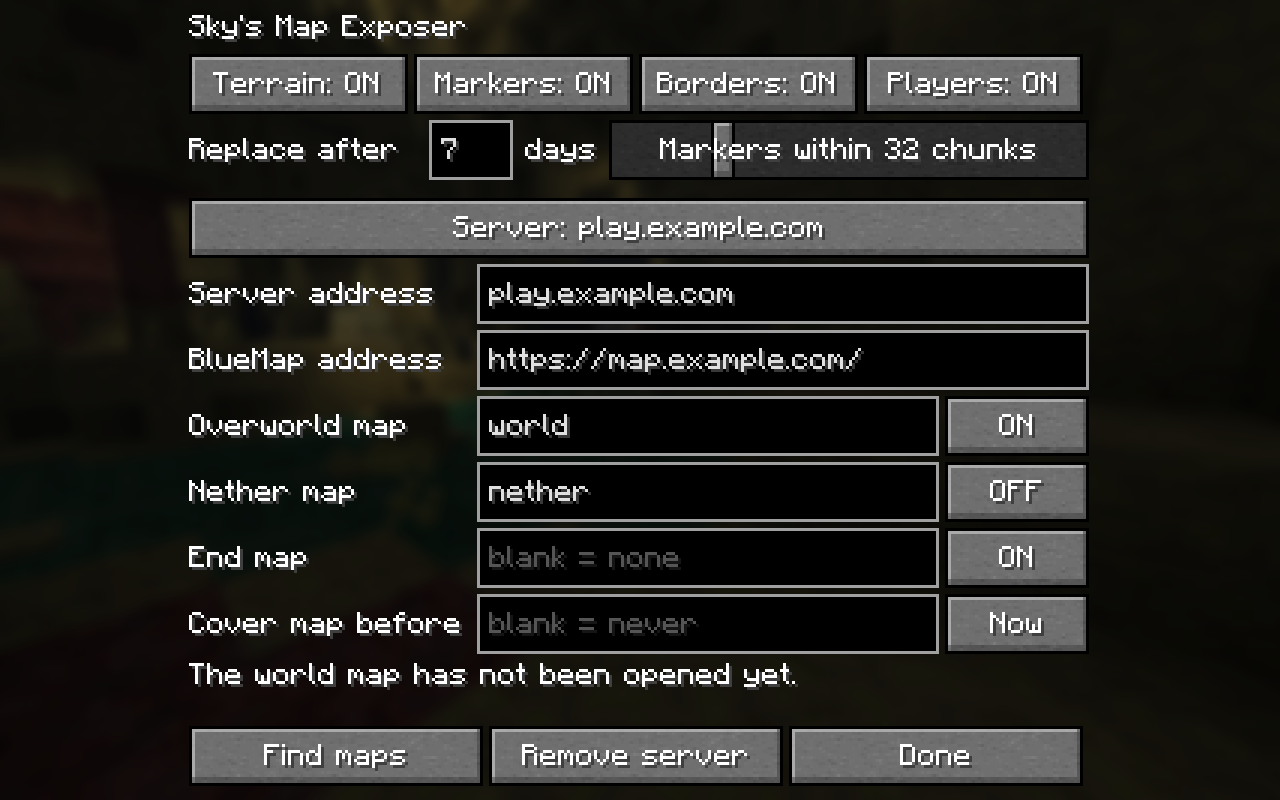
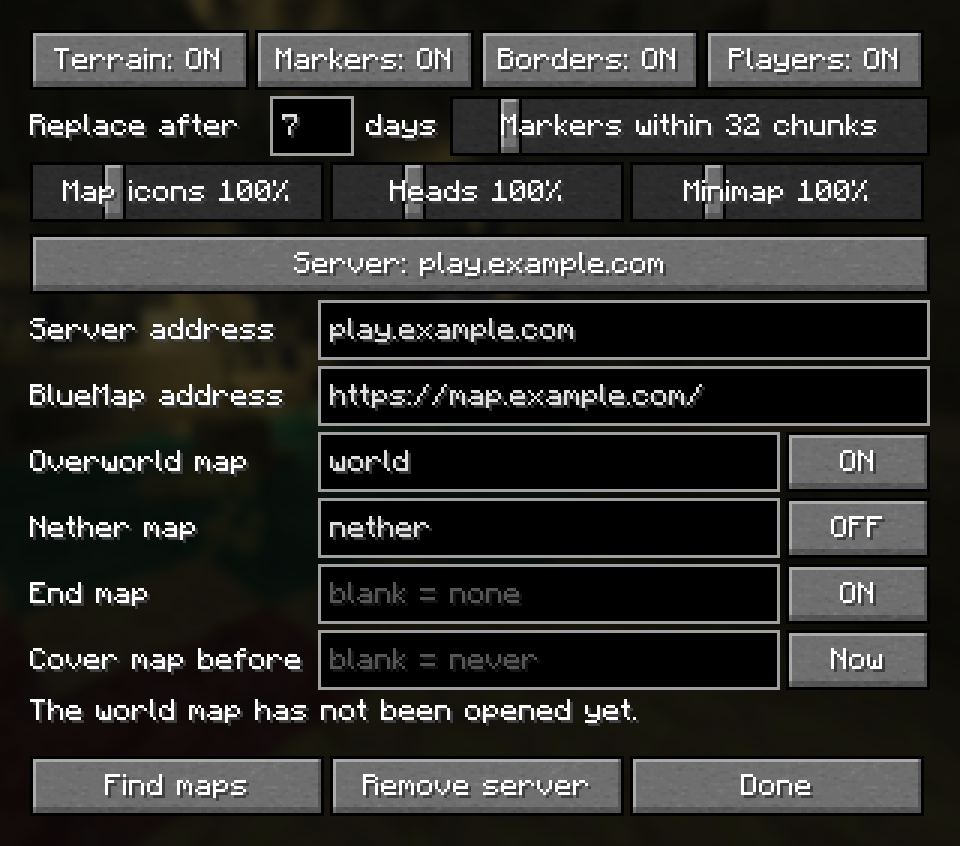
Sky's Map Exposer 1.2.0: size sliders for markers and heads, tidier settings
Three new sizes in the settings, 25% to 300%: BlueMap markers on the world map, other players' heads on the world map (on their own), and BlueMap markers on the minimap.

The web client behind each server session, and behind Find maps, is closed as soon as it is done, and marker icons still downloading when you leave a server are freed.

The README has an evenly framed settings screenshot showing the new sliders, and shorter notes on marker sizes.

diff --git a/src/main/kotlin/com/skystormer/skysmapexposer/gui/ConfigScreen.kt b/src/main/kotlin/com/skystormer/skysmapexposer/gui/ConfigScreen.kt
@@ -64,6 +64,9 @@ class ConfigScreen(private val parent: Screen) : Screen(Component.literal("Sky's
     private var showPlayers = Config.showPlayers
     private var staleDays = formatDays(Config.staleDays)
     private var shrinkChunks = Config.minimapShrinkChunks
+    private var worldMapMarkerScale = Config.worldMapMarkerScale
+    private var playerHeadScale = Config.playerHeadScale
+    private var minimapMarkerScale = Config.minimapMarkerScale
     private var message: Component = Component.literal(Overlay.lastSummary)
     private var selected: Int = pickInitialServer() // after message, which it may replace
 
@@ -99,10 +102,7 @@ class ConfigScreen(private val parent: Screen) : Screen(Component.literal("Sky's
         val fieldWidth = WIDTH - labelWidth
         val switchWidth = 48
         // Everything below fits in 256 scaled pixels, so the whole screen shows at large GUI scales.
-        var y = maxOf(2, (height - 256) / 2)
-
-        addRenderableWidget(StringWidget(left, y, WIDTH, font.lineHeight, title, font))
-        y += font.lineHeight + GAP * 2
+        var y = maxOf(1, (height - 256) / 2)
 
         val quarter = (WIDTH - GAP * 3) / 4
         addRenderableWidget(toggle(left, y, quarter, "Terrain", enabled, "Fill in your map with BlueMap's terrain.") { enabled = it })
@@ -126,7 +126,17 @@ class ConfigScreen(private val parent: Screen) : Screen(Component.literal("Sky's
             "BlueMap markers show on the minimap only within this distance, smaller the further away they are. The world map still shows them all."
         )))
         addRenderableWidget(slider)
-        y += ROW + GAP * 3
+        y += ROW + GAP
+
+        // Sizes: world map markers, players' heads, minimap markers, each on its own.
+        val third = (WIDTH - GAP * 2) / 3
+        addRenderableWidget(ScaleSlider(left, y, third, "Map icons", worldMapMarkerScale,
+            "Size of BlueMap's markers on the world map.") { worldMapMarkerScale = it })
+        addRenderableWidget(ScaleSlider(left + third + GAP, y, third, "Heads", playerHeadScale,
+            "Size of other players' heads on the world map.") { playerHeadScale = it })
+        addRenderableWidget(ScaleSlider(left + (third + GAP) * 2, y, third, "Minimap", minimapMarkerScale,
+            "Size of BlueMap's markers on the minimap. They still shrink with distance.") { minimapMarkerScale = it })
+        y += ROW + GAP * 2
 
         val choices = drafts.indices.toList() + NEW
         addRenderableWidget(
@@ -181,9 +191,8 @@ class ConfigScreen(private val parent: Screen) : Screen(Component.literal("Sky's
 
         messageWidget = MultiLineTextWidget(left, y + 1, message, font).setMaxWidth(WIDTH).setMaxRows(2)
         addRenderableWidget(messageWidget)
-        y += font.lineHeight * 2 + GAP * 2
+        y += font.lineHeight * 2 + GAP
 
-        val third = (WIDTH - GAP * 2) / 3
         addRenderableWidget(Button.builder(Component.literal("Find maps")) { findMaps() }.bounds(left, y, third, ROW).build())
         addRenderableWidget(Button.builder(Component.literal("Remove server")) { removeSelected() }.bounds(left + third + GAP, y, third, ROW).build())
         addRenderableWidget(Button.builder(CommonComponents.GUI_DONE) { onClose() }.bounds(left + (third + GAP) * 2, y, third, ROW).build())
@@ -212,6 +221,35 @@ class ConfigScreen(private val parent: Screen) : Screen(Component.literal("Sky's
         companion object {
             fun toSlider(chunks: Int): Double =
                 (chunks - Config.MIN_SHRINK_CHUNKS).toDouble() / (Config.MAX_SHRINK_CHUNKS - Config.MIN_SHRINK_CHUNKS)
+        }
+    }
+
+    /** A size from 25% to 300%, in steps of 5%. */
+    private class ScaleSlider(
+        x: Int, y: Int, width: Int, private val name: String, initial: Float, explanation: String,
+        private val onChange: (Float) -> Unit,
+    ) : AbstractSliderButton(x, y, width, ROW, Component.empty(), toSlider(initial)) {
+
+        init {
+            updateMessage()
+            setTooltip(Tooltip.create(Component.literal(explanation)))
+        }
+
+        private val scale: Float
+            get() {
+                val raw = Config.MIN_SCALE + value.toFloat() * (Config.MAX_SCALE - Config.MIN_SCALE)
+                return (raw * 20).roundToInt() / 20f
+            }
+
+        override fun updateMessage() {
+            message = Component.literal("$name ${(scale * 100).roundToInt()}%")
+        }
+
+        override fun applyValue() = onChange(scale)
+
+        companion object {
+            fun toSlider(scale: Float): Double =
+                ((scale - Config.MIN_SCALE) / (Config.MAX_SCALE - Config.MIN_SCALE)).toDouble()
         }
     }
 
@@ -272,7 +310,7 @@ class ConfigScreen(private val parent: Screen) : Screen(Component.literal("Sky's
         }
         show("Asking $url…")
         Thread({
-            val result = runCatching { BlueMap(url).maps() }
+            val result = runCatching { BlueMap(url).use { it.maps() } }
             minecraft.execute {
                 result.onSuccess { maps ->
                     val overworld = mapBoxes[Config.OVERWORLD]
@@ -298,6 +336,9 @@ class ConfigScreen(private val parent: Screen) : Screen(Component.literal("Sky's
         Config.showOutlines = showOutlines
         Config.showPlayers = showPlayers
         Config.minimapShrinkChunks = shrinkChunks
+        Config.worldMapMarkerScale = worldMapMarkerScale
+        Config.playerHeadScale = playerHeadScale
+        Config.minimapMarkerScale = minimapMarkerScale
         staleDays.trim().toDoubleOrNull()?.takeIf { it >= 0 }?.let { Config.staleDays = it }
         Config.servers = drafts
             .filter { splitAddresses(it.addresses).isNotEmpty() && it.url.isNotBlank() }

diff --git a/src/main/kotlin/com/skystormer/skysmapexposer/Config.kt b/src/main/kotlin/com/skystormer/skysmapexposer/Config.kt
@@ -46,6 +46,15 @@ object Config {
      */
     var minimapShrinkChunks: Int = 32
 
+    /** Size of BlueMap's markers on the world map, as a multiple of the normal size. */
+    var worldMapMarkerScale: Float = 1f
+
+    /** Size of other players' heads on the world map, independent of the markers. */
+    var playerHeadScale: Float = 1f
+
+    /** Size of BlueMap's markers on the minimap, on top of their shrinking with distance. */
+    var minimapMarkerScale: Float = 1f
+
     /** How often a tile on screen is checked for changes on the server. */
     var tileRefreshSeconds: Int = 60
 
@@ -115,6 +124,9 @@ object Config {
             json.get("showOutlines")?.let { showOutlines = it.asBoolean }
             json.get("showPlayers")?.let { showPlayers = it.asBoolean }
             json.get("staleDays")?.let { staleDays = it.asDouble }
+            json.get("worldMapMarkerScale")?.let { worldMapMarkerScale = it.asFloat.coerceIn(MIN_SCALE, MAX_SCALE) }
+            json.get("playerHeadScale")?.let { playerHeadScale = it.asFloat.coerceIn(MIN_SCALE, MAX_SCALE) }
+            json.get("minimapMarkerScale")?.let { minimapMarkerScale = it.asFloat.coerceIn(MIN_SCALE, MAX_SCALE) }
             json.get("minimapShrinkChunks")?.let { minimapShrinkChunks = it.asInt.coerceIn(MIN_SHRINK_CHUNKS, MAX_SHRINK_CHUNKS) }
             json.get("tileRefreshSeconds")?.let { tileRefreshSeconds = it.asInt.coerceAtLeast(10) }
             json.get("markerRefreshSeconds")?.let { markerRefreshSeconds = it.asInt.coerceAtLeast(5) }
@@ -148,6 +160,9 @@ object Config {
         json.addProperty("showOutlines", showOutlines)
         json.addProperty("showPlayers", showPlayers)
         json.addProperty("staleDays", staleDays)
+        json.addProperty("worldMapMarkerScale", worldMapMarkerScale)
+        json.addProperty("playerHeadScale", playerHeadScale)
+        json.addProperty("minimapMarkerScale", minimapMarkerScale)
         json.addProperty("minimapShrinkChunks", minimapShrinkChunks)
         json.addProperty("tileRefreshSeconds", tileRefreshSeconds)
         json.addProperty("markerRefreshSeconds", markerRefreshSeconds)
@@ -178,6 +193,9 @@ object Config {
             Log.error("Could not write $file", e)
         }
     }
+
+    const val MIN_SCALE = 0.25f
+    const val MAX_SCALE = 3f
 
     const val MIN_SHRINK_CHUNKS = 4
     const val MAX_SHRINK_CHUNKS = 256

diff --git a/src/main/kotlin/com/skystormer/skysmapexposer/Markers.kt b/src/main/kotlin/com/skystormer/skysmapexposer/Markers.kt
@@ -54,6 +54,9 @@ class Markers(private val blueMap: BlueMap, private val workers: ExecutorService
     private val playersAskedAt = HashMap<String, Long>()
     private val icons = ConcurrentHashMap<String, IconSlot>()
 
+    @Volatile
+    private var closed = false
+
     private class IconSlot {
         @Volatile
         var image: NativeImage? = null
@@ -129,8 +132,14 @@ class Markers(private val blueMap: BlueMap, private val workers: ExecutorService
         return Triple(texture.textureView, slot.width, slot.height)
     }
 
+    /** Frees every icon: uploaded textures, and pictures downloaded but not yet uploaded. */
     fun close() {
-        icons.values.forEach { it.texture?.close() }
+        closed = true
+        icons.values.forEach { slot ->
+            slot.texture?.close()
+            slot.image?.close()
+            slot.image = null
+        }
         icons.clear()
     }
 
@@ -142,7 +151,8 @@ class Markers(private val blueMap: BlueMap, private val workers: ExecutorService
             for (y in 0 until decoded.height) {
                 for (x in 0 until decoded.width) image.setPixel(x, y, decoded.getRGB(x, y))
             }
-            slot.image = image
+            // Left the server while this was downloading: nothing will ever upload it.
+            if (closed) image.close() else slot.image = image
         } catch (e: Exception) {
             slot.failed = true
         }

diff --git a/src/main/kotlin/com/skystormer/skysmapexposer/BlueMap.kt b/src/main/kotlin/com/skystormer/skysmapexposer/BlueMap.kt
@@ -22,7 +22,7 @@ import java.time.Duration
  * These are facts about the files a BlueMap server publishes, checked against a live server; no
  * BlueMap code is used.
  */
-class BlueMap(baseUrl: String) {
+class BlueMap(baseUrl: String) : AutoCloseable {
 
     /** The web address with exactly one trailing slash. */
     val base: String = baseUrl.trimEnd('/') + "/"
@@ -121,6 +121,14 @@ class BlueMap(baseUrl: String) {
     fun file(path: String): ByteArray? {
         val response = get(path.trimStart('/'), HttpResponse.BodyHandlers.ofByteArray())
         return if (response.statusCode() == 200) response.body() else null
+    }
+
+    /**
+     * Stops the web client and its background thread now, rather than whenever the garbage
+     * collector gets to it. Nothing can be fetched afterwards.
+     */
+    override fun close() {
+        client.shutdownNow()
     }
 
     private fun <T> get(path: String, handler: HttpResponse.BodyHandler<T>): HttpResponse<T> {

diff --git a/src/main/kotlin/com/skystormer/skysmapexposer/MarkerElements.kt b/src/main/kotlin/com/skystormer/skysmapexposer/MarkerElements.kt
@@ -188,10 +188,14 @@ object MarkerElements {
         is Markers.Point -> 0xFF55FFFF.toInt()
     }
 
-    /** How big a pin is drawn, in the element's units: players' faces 2.5 times a marker's 8. */
-    fun sizeOf(pin: Markers.Pin): Float = if (pin is Markers.Player) 20f else 12f
+    /**
+     * How big a pin is drawn on the world map, in the element's units: players' faces start at 20,
+     * markers at 12, each times its own size setting.
+     */
+    fun sizeOf(pin: Markers.Pin): Float =
+        if (pin is Markers.Player) 20f * Config.playerHeadScale else 12f * Config.worldMapMarkerScale
 
-    fun halfOf(pin: Markers.Pin): Int = (sizeOf(pin) / 2).toInt()
+    fun halfOf(pin: Markers.Pin): Int = (sizeOf(pin) / 2).toInt().coerceAtLeast(2)
 
     const val HALF = 6
     private const val TITLE_BACKGROUND = 0xFF2A4A6A.toInt()

diff --git a/src/main/kotlin/com/skystormer/skysmapexposer/MinimapMarkerElements.kt b/src/main/kotlin/com/skystormer/skysmapexposer/MinimapMarkerElements.kt
@@ -92,7 +92,7 @@ object MinimapMarkerElements {
             val pose = graphics.pose()
             pose.pushPose()
             pose.translate(partialX, partialY, 0.0)
-            val size = scaleFor(pin)
+            val size = scaleFor(pin) * Config.minimapMarkerScale
             pose.scale(scale * size, scale * size, 1f)
             val icon = MarkerElements.iconFor(pin)
             val renderer = context.iconRenderer

diff --git a/src/main/kotlin/com/skystormer/skysmapexposer/Session.kt b/src/main/kotlin/com/skystormer/skysmapexposer/Session.kt
@@ -65,6 +65,7 @@ class Session private constructor(val server: Config.Server, val folder: Path) {
         tiles.clear()
         markers.close()
         workers.shutdownNow()
+        blueMap.close()
         io.shutdown() // not Now: let the last visit save finish
     }
 

diff --git a/README.md b/README.md
@@ -66,7 +66,8 @@ Hover over any setting in the game for an explanation.
 |:--|:--|
 | **Terrain / Markers / Borders / Players** | Switch each part on or off, for every server. |
 | **Replace after … days** | How old your own map must be before BlueMap's newer picture replaces it. |
-| **Markers within … chunks** | How far away BlueMap markers are shown on the minimap, from 4 to 256 chunks (32 by default). See below. |
+| **Markers within … chunks** | How far away BlueMap markers show on the minimap. |
+| **Map icons / Heads / Minimap** | How big markers and players' heads are drawn. |
 | **Server** | Which server you are editing. Click through to switch, or to add one. |
 | **Server address** | Every name you join this server by, separated by commas, e.g. `play.example.com, 203.0.113.7`. |
 | **BlueMap address** | The web page of the server's BlueMap. |
@@ -81,11 +82,8 @@ still show. Switch it on if your server's nether map shows the inside.
 
 ## Markers on the minimap
 
-A server can have hundreds of markers, and Xaero pins the ones off the minimap to its edge, which
-can crowd it. So the minimap only shows BlueMap markers within the **Markers within … chunks** distance
-(32 chunks by default). They are largest when you are standing on them and get smaller the
-further away they are; beyond that distance they are hidden from the minimap. The world map
-always shows every marker.
+The minimap only shows BlueMap markers near you, so a busy server doesn't crowd its edge. The
+world map always shows every marker.
 
 ![A minimap crowded with every marker at full size, next to one showing only nearby markers, smaller the further away they are](docs/minimap-edge.png)
 
@@ -139,8 +137,8 @@ Written from scratch; no code was copied from any other project.
   only their public method, field and local-variable names were read, to place the mixins and use
   their element and waypoint systems.
 
-The pictures of the maps above are illustrations drawn for this page; the settings screen is a
-real screenshot.
+The pictures of the maps are illustrations drawn for this page; the settings screen is a real
+screenshot.
 
 ## License
 
